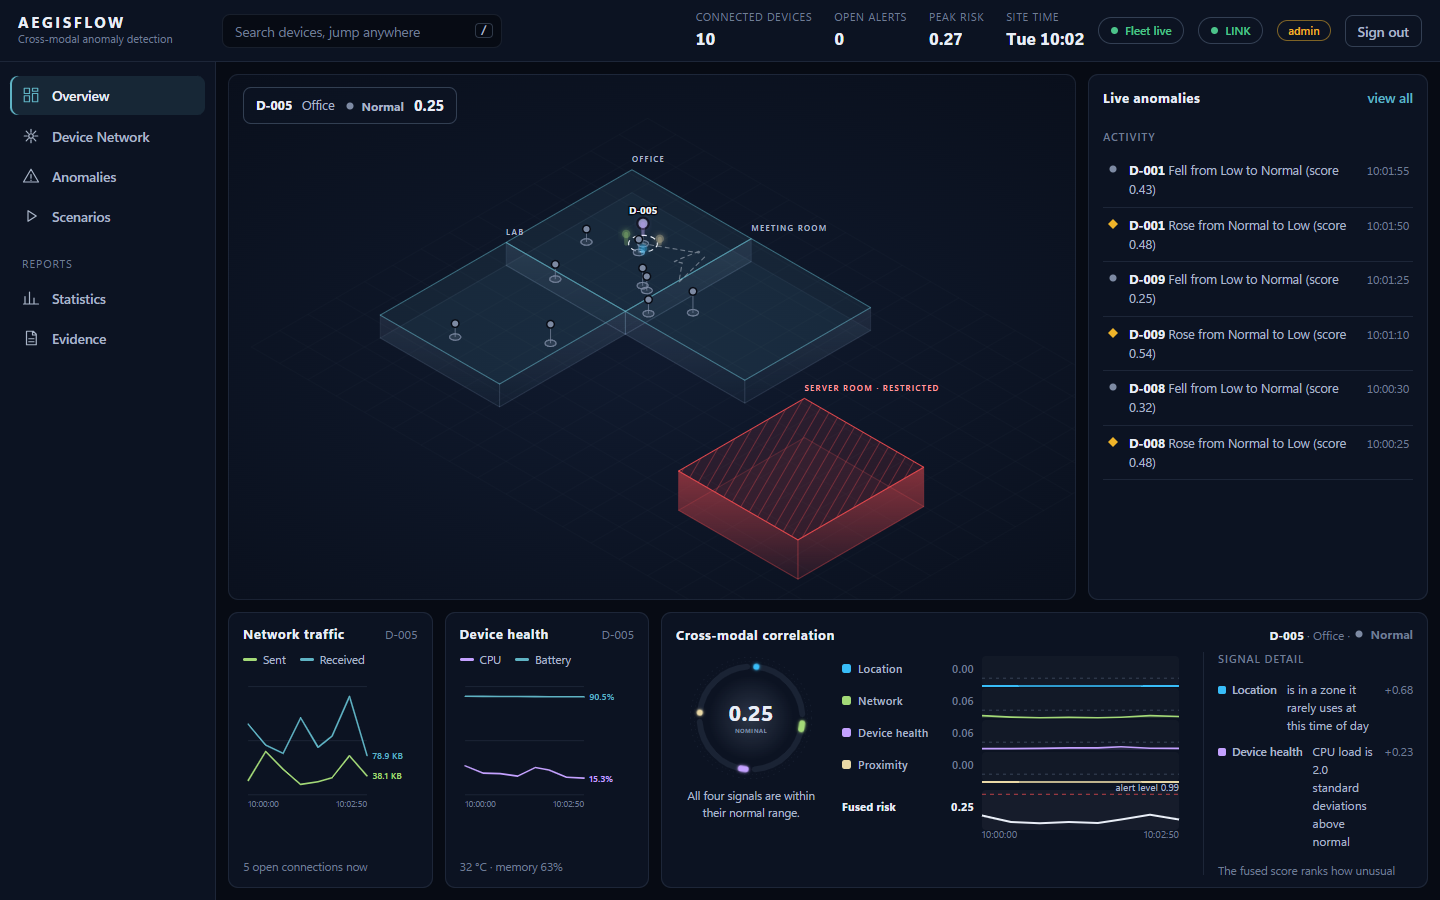
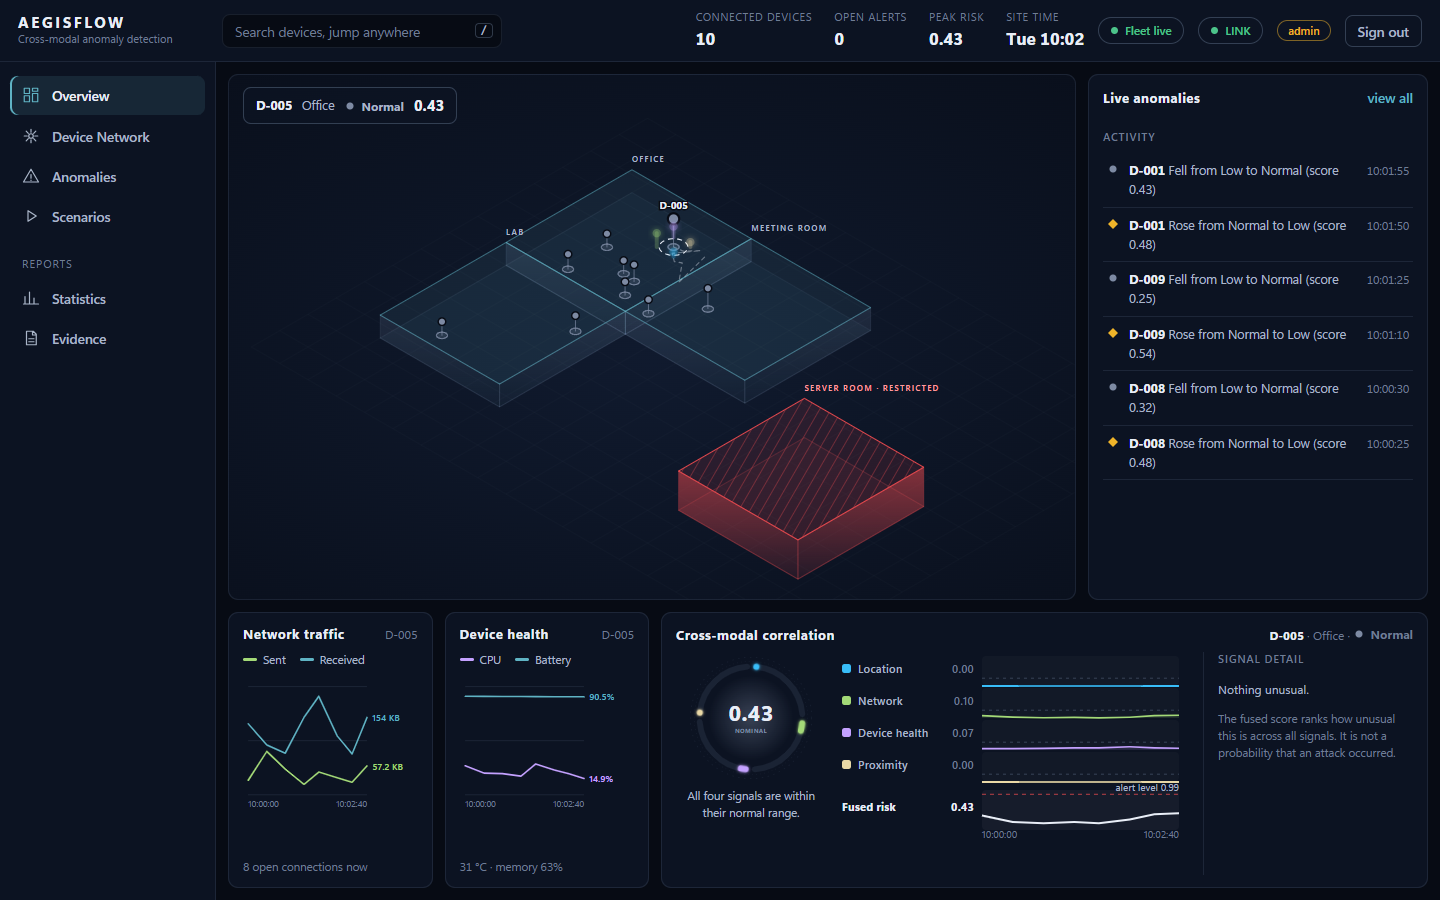
Rebuild the Docker stack from scratch for R3/R4 and record the results: smoke_stack OK, new smoke_observation (declared signal sets, observation-aware alerts, missing/recovering) OK, dashboard e2e OK, demo story OK; screenshots regenerated

diff --git a/scripts/smoke_observation.py b/scripts/smoke_observation.py
@@ -1,0 +1,193 @@
+"""R3/R4 end-to-end check against the RUNNING Docker stack (declared signal sets and observation-aware alert wording).
+
+  python scripts/smoke_observation.py [report.json]      # reads AEGIS_* from the environment or .env, talks to http://localhost:$AEGIS_PORT/api
+
+A network-only device (declares `signals: ["network"]`) is registered and driven through the real HTTP ingest -> Redis -> processor -> detectors ->
+fusion -> alerts path with event-time timestamps, so its baselines fill in about 13 minutes of wall clock at the 2 events per second per-device limit.
+Checks: the declaration is stored and returned; the device is not Degraded for signals it never declared; a network spike raises an alert whose
+record and text say the alert rests on network telemetry only; a declared signal that disappears is Degraded (missing) and then recovering; an
+undeclared signal that is sent anyway is ignored. Nothing here touches the detector, the models or the research artifacts.
+"""
+import json
+import os
+import random
+import sys
+import time
+from datetime import datetime, timedelta, timezone
+from pathlib import Path
+
+import httpx
+
+
+def env(name):
+    if os.environ.get(name):
+        return os.environ[name]
+    for line in Path(".env").read_text().splitlines():
+        if line.startswith(name + "="):
+            return line.split("=", 1)[1].strip()
+    sys.exit(f"{name} not set")
+
+
+BASE = f"http://localhost:{os.environ.get('AEGIS_PORT') or '8080'}/api"
+ADMIN, VIEWER = env("AEGIS_ADMIN_TOKEN"), env("AEGIS_VIEWER_TOKEN")
+AH, VH = {"Authorization": f"Bearer {ADMIN}"}, {"Authorization": f"Bearer {VIEWER}"}
+DEV = "D-932"
+report: dict = {"device": DEV, "checks": [], "started": datetime.now(timezone.utc).isoformat()}
+c = httpx.Client(base_url=BASE, timeout=20)
+
+
+def ok(name, detail=""):
+    report["checks"].append({"check": name, "ok": True, "detail": detail})
+    print(f"  ok  {name}" + (f"  [{detail}]" if detail else ""))
+
+
+def fail(name, detail):
+    report["checks"].append({"check": name, "ok": False, "detail": detail})
+    print(f"FAIL  {name}  [{detail}]")
+    finish(1)
+
+
+def finish(code):
+    report["finished"] = datetime.now(timezone.utc).isoformat()
+    report["passed"] = code == 0
+    if len(sys.argv) > 1:
+        Path(sys.argv[1]).write_text(json.dumps(report, indent=1))
+    print("OBSERVATION CHECK OK" if code == 0 else "OBSERVATION CHECK FAILED")
+    sys.exit(code)
+
+
+def live():
+    r = c.get(f"/devices/{DEV}", headers=VH)
+    return (r.json() or {}).get("live") if r.status_code == 200 else None
+
+
+def wait_live(pred, timeout=60):
+    end = time.time() + timeout
+    snap = None
+    while time.time() < end:
+        snap = live()
+        if snap and pred(snap):
+            return snap
+        time.sleep(1)
+    return snap
+
+
+print("1. declarations are stored, returned and validated")
+for bad in ([], ["wifi"], ["network", "network"]):
+    r = c.post("/devices", headers=AH, json={"device_id": "D-939", "name": "x", "signals": bad})
+    if r.status_code != 422:
+        fail("invalid declaration rejected", f"{bad} -> {r.status_code}")
+ok("empty, unknown and repeated declarations are rejected (422)")
+r = c.post("/devices", headers=AH, json={"device_id": DEV, "name": "Network-only camera", "type": "camera", "signals": ["network"]})
+if r.status_code != 201:
+    fail("register network-only device", f"{r.status_code} {r.text[:120]}")
+key = r.json()["api_key"]
+d = c.get(f"/devices/{DEV}", headers=VH).json()
+lst = {x["device_id"]: x for x in c.get("/devices", headers=VH).json()}
+if d.get("signals") != ["network"] or lst[DEV].get("signals") != ["network"]:
+    fail("declaration returned", f"{d.get('signals')} / {lst[DEV].get('signals')}")
+ok("declared signals=['network'] is stored and returned by GET /devices and /devices/{id}")
+
+base = datetime.now(timezone.utc).replace(microsecond=0) - timedelta(hours=3)
+tick = [0]
+rng = random.Random(7)
+H = {"X-Device-Key": key}
+
+
+def body(lost=(), spike=False, extra=None):
+    tick[0] += 1
+    t = base + timedelta(seconds=5 * tick[0])
+    b = {"device_id": DEV, "timestamp": t.isoformat().replace("+00:00", "Z"),
+         "latitude": None, "longitude": None, "battery": None, "cpu_usage": None, "memory_usage": None, "temperature": None, "uptime_s": None,
+         "network_connections": 5 + rng.randint(0, 2) + (400 if spike else 0), "bytes_sent": 1000 + rng.randint(0, 200) + (60_000_000 if spike else 0),
+         "bytes_received": 2000 + rng.randint(0, 300), "remote_endpoints": ["10.0.0.1"] + ([f"203.0.113.{i}" for i in range(1, 60)] if spike else []),
+         "nearby_devices": None}
+    if "network" in lost:
+        b.update(network_connections=None, bytes_sent=None, bytes_received=None, remote_endpoints=None)
+    if extra:
+        b.update(extra)
+    return b
+
+
+def send(b):
+    while True:
+        r = c.post("/telemetry", headers=H, json=b)
+        if r.status_code == 202:
+            time.sleep(0.52)  # stay under the 2 events per second per-device limit
+            return
+        if r.status_code == 429:
+            time.sleep(float(r.headers.get("Retry-After", "1")))
+            continue
+        fail("telemetry accepted", f"{r.status_code} {r.text[:160]}")
+
+
+print("2. a network-only device is learned and is not Degraded for signals it never declared (about 13 minutes)")
+# The network detector's unfamiliar-endpoint baseline starts after 3600 s of event time and then needs 720 samples, so a device reports
+# `learning` for about 1440 events; alerts are (rightly) withheld until it stops. Warm until the device says it is done, with a cap.
+sent_n = 0
+snap = None
+while sent_n < 1900:
+    for _ in range(100):
+        send(body())
+        sent_n += 1
+    print(f"      {sent_n} events sent")
+    snap = wait_live(lambda s: True, 30)
+    if snap and snap.get("learning") is False:
+        break
+if not snap:
+    fail("live snapshot", "no snapshot for the device")
+if snap.get("learning") is not False:
+    fail("device finishes learning", f"still learning after {sent_n} events")
+report["events_to_finish_learning"] = sent_n
+report["snapshot_quiet"] = snap
+if snap.get("observability") != "full" or snap.get("state") != "normal":
+    fail("network-only device is not Degraded", f"observability={snap.get('observability')} state={snap.get('state')} learning={snap.get('learning')}")
+if sorted(snap.get("unsupported", [])) != ["device", "proximity", "spatial"] or snap.get("missing") or snap.get("recovering"):
+    fail("unsupported/missing/recovering split", f"unsupported={snap.get('unsupported')} missing={snap.get('missing')} recovering={snap.get('recovering')}")
+ok("observability full, state normal, unsupported = device+proximity+spatial, nothing missing or recovering", f"learning={snap.get('learning')}")
+
+print("3. an undeclared signal that is sent anyway is ignored")
+before = wait_live(lambda s: True)
+send(body(extra={"latitude": 18.52, "longitude": 73.85}))
+after = wait_live(lambda s: s["ts"] != before["ts"], 20)
+if after is None or "spatial" not in after.get("unsupported", []) or after.get("observability") != "full":
+    fail("undeclared location ignored", f"{after and (after.get('unsupported'), after.get('observability'))}")
+ok("location sent by a device that never declared it is treated as unsupported (state unchanged)")
+
+print("4. a network spike raises an alert that says it rests on network telemetry only")
+for _ in range(14):
+    send(body(spike=True))
+alerts = []
+end = time.time() + 60
+while time.time() < end and not alerts:
+    alerts = c.get("/alerts", headers=VH, params={"device_id": DEV}).json()
+    time.sleep(2)
+if not alerts:
+    snap = live()
+    fail("alert raised for the spike", f"no alert; last score={snap and snap.get('score')} severity={snap and snap.get('severity')}")
+a = alerts[0]
+pl = a.get("payload") or a
+obs, expl = pl.get("observation", ""), pl.get("explanation", "")
+report["alert"] = {k: pl.get(k) for k in ("alert_id", "severity", "peak_score", "unavailable", "unsupported", "missing", "recovering", "observation")}
+if sorted(pl.get("unsupported", [])) != ["device", "proximity", "spatial"] or pl.get("missing") or pl.get("recovering"):
+    fail("alert record names the unsupported signals", str(report["alert"]))
+if "not supported by this device" not in obs or "based on network telemetry only" not in obs or "neither confirm nor rule out" not in obs:
+    fail("observation wording", obs)
+if obs not in expl or "Observation:" not in expl:
+    fail("explanation carries the observation line", expl[-300:])
+ok("alert record: unsupported = device+proximity+spatial; text: " + obs[:90] + "...")
+
+print("5. a declared signal that disappears is Degraded (missing) and then recovering")
+for _ in range(20):
+    send(body())  # calm again
+send(body(lost=("network",)))
+s_lost = wait_live(lambda s: s.get("missing") == ["network"], 20)
+if not s_lost or s_lost.get("state") != "degraded" or s_lost.get("observability") not in ("blind", "degraded"):
+    fail("lost declared signal is Degraded", f"{s_lost and (s_lost.get('state'), s_lost.get('observability'), s_lost.get('missing'))}")
+ok("network lost: state degraded, missing = ['network'], observability " + s_lost["observability"])
+send(body())
+s_back = wait_live(lambda s: s.get("recovering") == ["network"], 20)
+if not s_back or s_back.get("missing"):
+    fail("signal back is recovering", f"{s_back and (s_back.get('missing'), s_back.get('recovering'))}")
+ok("network back: recovering = ['network'], judgment withheld (alertable=" + str(s_back.get("alertable")) + ")")
+finish(0)

diff --git a/docs/RESEARCH.md b/docs/RESEARCH.md
@@ -157,7 +157,7 @@ The reason is what the timestamps show, which the metadata could not: the daily 
 
 | Question | Evidence | Status |
 |---|---|---|
-| Does the pipeline behave as specified (streaming, idempotent writes, availability states, recovery, declared signals, alert wording)? | 221 backend tests (real Redis, none skipped), 62 frontend tests, a browser end-to-end run, Docker smoke checks (images built at `research-v1`, not rebuilt for R3/R4) | **Engineering-validated** |
+| Does the pipeline behave as specified (streaming, idempotent writes, availability states, recovery, declared signals, alert wording)? | 221 backend tests (real Redis, none skipped), 62 frontend tests, a browser end-to-end run, Docker: images rebuilt from scratch at the R3/R4 commit, smoke test, dashboard end-to-end run, demo story and a declared-signals check all passing in the containers (`results/docker_rebuild_r3r4.json`) | **Engineering-validated** |
 | Does fusing signals beat "any detector fires"? | F1, D107 (pre-registered, simulator) | Yes, **in simulation only** |
 | Does the shipped network detector hold the false-alarm budget on real benign traffic? | R1: 31.6 per device-day (IoT-23); R5: 45.5 (UNSW 2016) | **No** |
 | Can a re-modelled or re-thresholded network detector meet the budget on real benign traffic? | R5, 159.6 held-out benign device-days, 2016 UNSW testbed: A 2.68 [2.00, 3.42], B 2.10 [1.33, 2.97], thresholds set on the same testbed | **Holds in that testbed.** Not shown to transfer to other devices, years or sites; all UNSW traffic is assumed benign |
